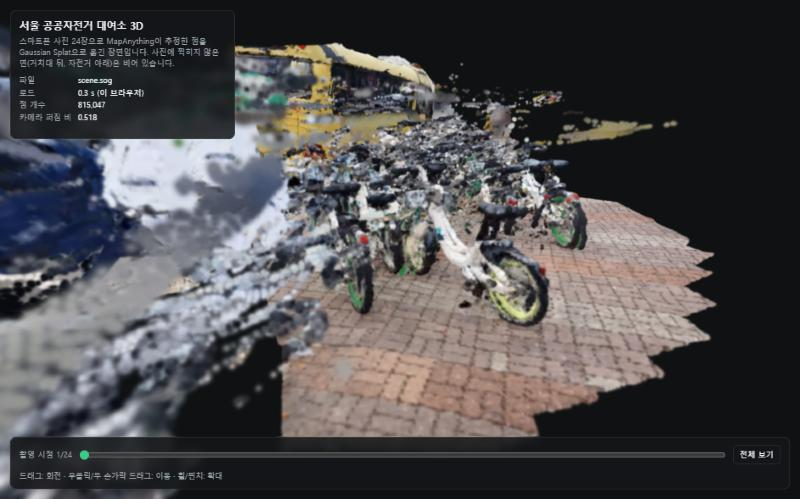
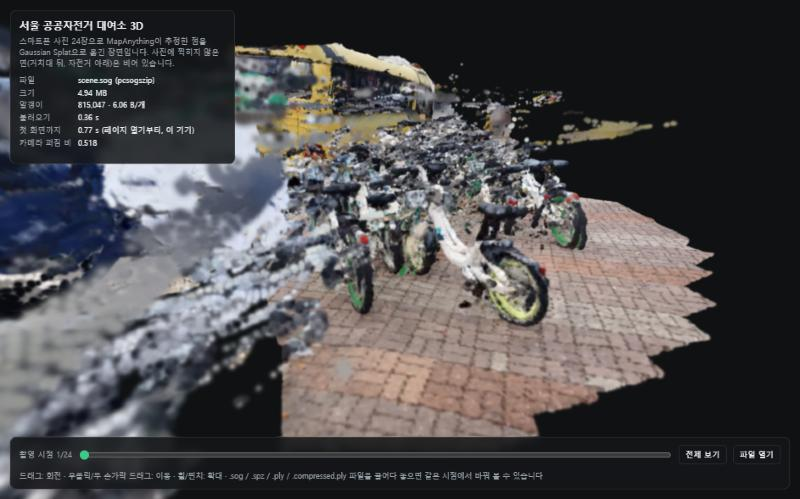
README: Pages load timings, format visual comparison, parallax/alignment limits; live screenshot

Changed region(s): [[0.0, 0.1503, 0.3125, 0.3307], [0.2812, 0.9319, 0.6875, 0.9619], [0.8438, 0.9018, 0.9688, 0.9319]]

diff --git a/README.md b/README.md
@@ -155,11 +155,14 @@ input/bikeshare_frames_24.zip
 | 기기 | 브라우저 · 통신 | 첫 화면까지 |
 |---|---|---:|
 | Windows PC (Claude 앱 내장 브라우저) | 로컬 서버 (네트워크 없음) | 2.80–4.24 s |
-| Windows PC (Claude 앱 내장 브라우저) | GitHub Pages | 배포 후 측정 |
+| Windows PC (Claude 앱 내장 브라우저) | GitHub Pages, 첫 방문 (PC의 인터넷 연결, 종류 미기록) | 2.83 s |
+| Windows PC (Claude 앱 내장 브라우저) | GitHub Pages, 다시 열기 (브라우저 캐시) | 0.77 s |
+| 같은 PC에서 폰 화면 흉내 (375×812, 실제 폰 아님) | GitHub Pages, 캐시 | 0.45 s |
 | 내 폰 | (기기 · Wi-Fi/LTE 기재) | 직접 측정해 기재 |
 | 다른 사람 폰 | (기기 · Wi-Fi/LTE 기재) | 직접 측정해 기재 |
 
-폰 값은 실제 폰으로 주소를 열어 패널에 표시된 숫자를 적어야 하므로, 측정 전에는 비워 둡니다.
+- 폰 값은 실제 폰으로 주소를 열어 패널에 표시된 숫자를 적어야 하므로, 측정 전에는 비워 둡니다. 폰 화면 흉내로는 화면 배치(가로 스크롤 없음)와 로딩만 확인했습니다.
+- GitHub Pages는 `scene.sog`를 gzip으로 압축해 보냅니다. 그래서 응답 헤더의 크기(4,934,199 B)가 실제 파일 크기(4,938,596 B)와 다릅니다. 뷰어는 실제로 받은 바이트 수를 표시합니다.
 
 ## 7. 복원되지 않은 부분과 원인
 
@@ -231,6 +234,6 @@ input/bikeshare_frames_24.zip
 | `scripts/test_synthetic.py` | 합성 장면으로 유틸리티와 뷰어 확인 (실제 결과 아님) |
 | `privacy/redact_boxes.json`, `privacy/review.html` | 블러 영역과 로컬 검토 페이지 |
 | `results/` | `metrics.json`, `scene_meta.json`, `formats.json`/`.md`, `preview_topdown.png`, `redaction_sheet.jpg` (블러 후 썸네일) |
-| `shots/viewer.png` | 뷰어 화면 캡처 (촬영 시점 1, 1280×800 화면을 800×499로 저장) |
+| `shots/viewer.png` | GitHub Pages 뷰어 화면 캡처 (촬영 시점 1, 1280×800 화면을 800×499로 저장) |
 
 `scene.ply`, `scene.compressed.ply`, `scene.spz`, 결과 ZIP은 용량 때문에 `.gitignore`로 제외했습니다. 형식 비교 수치는 위 표와 `results/formats.json`에 남아 있습니다.
